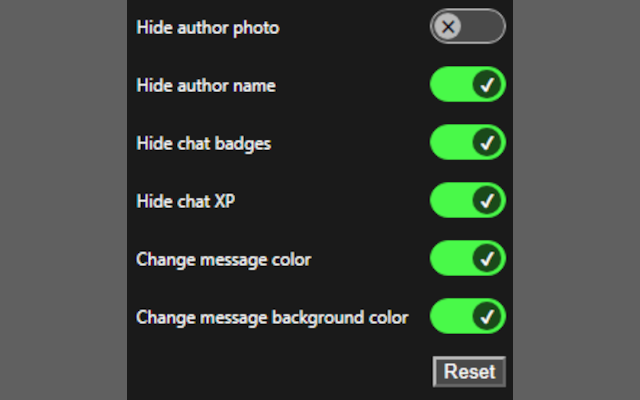
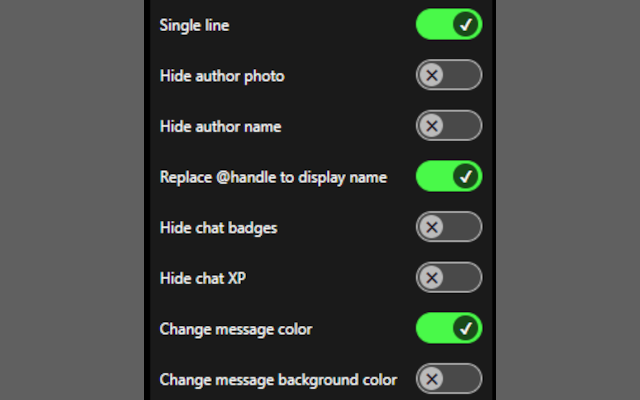
slc

Changed region(s): [[0.1875, 0.0, 0.8125, 1.0]]

diff --git a/index.html b/index.html
@@ -133,9 +133,11 @@ CAUTION: On Twitch, the audio may become muted.
                 <div class="desc">
                     <pre>
 This extension provides the following features to improve YouTube live chat:
+
 - Displays each message in a single line. This ensures that even long messages spanning multiple lines take up uniform space. Hovering over a message will display its full content as usual.
-- Hides icons, names, and badges from messages.
+- Hides icons, sender names, badges, and XP from messages.
 - Differentiates message text and background colors based on user type: general users, members, moderators, and owners.
+- Change the message sender name from @handle to display name.
 
 Supported Platforms: YouTube.com, Holodex
             </pre>
